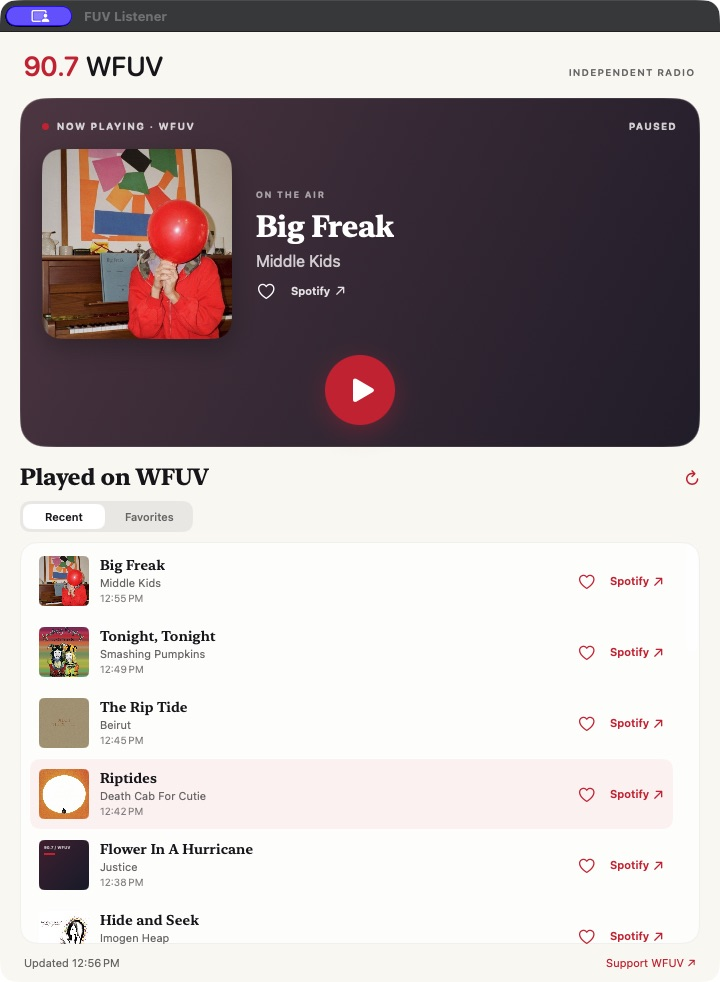
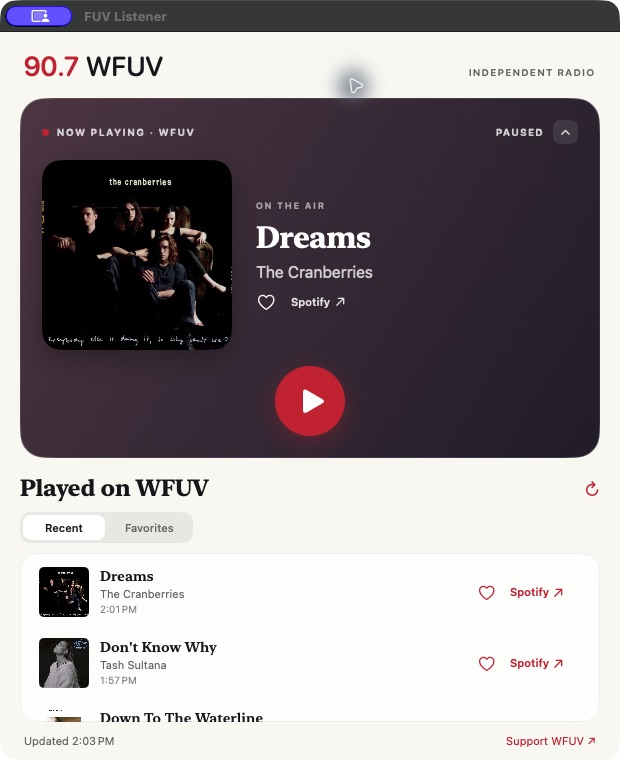
Make collapsed player a true mini window

diff --git a/Sources/FUVListenerMac/ListenerView.swift b/Sources/FUVListenerMac/ListenerView.swift
@@ -1,3 +1,4 @@
+import AppKit
 import SwiftUI
 
 enum Palette {
@@ -11,53 +12,100 @@ struct ListenerView: View {
     @EnvironmentObject private var radio: MacRadioStore
     @Environment(\.accessibilityReduceMotion) private var reduceMotion
     @AppStorage("playerCollapsed") private var playerCollapsed = false
+    @State private var windowReference = WeakWindowReference()
+    @State private var expandedContentSize = NSSize(width: 620, height: 760)
 
     var body: some View {
         GeometryReader { geometry in
-            let expanded = geometry.size.width >= 550 && geometry.size.height >= 690
-            VStack(spacing: 0) {
-                masthead
-                    .padding(.horizontal, 24)
-                    .padding(.top, 18)
-                    .padding(.bottom, 16)
-
-                Group {
-                    if playerCollapsed {
-                        CollapsedPlayerPanel(radio: radio) { playerCollapsed = false }
-                    } else {
-                        PlayerPanel(radio: radio, expanded: expanded,
-                                    tight: geometry.size.height < 630) {
-                            playerCollapsed = true
-                        }
-                    }
+            Group {
+                if playerCollapsed {
+                    CollapsedPlayerPanel(radio: radio) { setCollapsed(false) }
+                        .padding(12)
+                } else {
+                    fullPlayer(in: geometry.size)
                 }
-                .padding(.horizontal, 20)
-                .padding(.bottom, 16)
-                .animation(reduceMotion ? nil : .spring(response: 0.34, dampingFraction: 0.86),
-                           value: playerCollapsed)
-
-                if let message = radio.message {
-                    Label(message, systemImage: "wifi.exclamationmark")
-                        .font(.system(size: 12))
-                        .foregroundStyle(Palette.muted)
-                        .frame(maxWidth: .infinity, alignment: .leading)
-                        .padding(.horizontal, 24)
-                        .padding(.bottom, 10)
-                }
-
-                TrackLibraryView(radio: radio)
-                    .padding(.horizontal, 20)
-                    .frame(maxHeight: .infinity)
-
-                footer
-                    .padding(.horizontal, 24)
-                    .padding(.vertical, 12)
             }
             .frame(maxWidth: .infinity, maxHeight: .infinity)
             .background(Palette.paper)
+            .background(WindowObserver { window in
+                guard windowReference.window !== window else { return }
+                windowReference.window = window
+                configureWindow(window, collapsed: playerCollapsed, resize: playerCollapsed)
+            })
         }
         .onAppear { radio.startUpdates() }
         .onDisappear { radio.stopUpdates() }
+    }
+
+    private func fullPlayer(in size: CGSize) -> some View {
+        let expanded = size.width >= 550 && size.height >= 690
+        return VStack(spacing: 0) {
+            masthead
+                .padding(.horizontal, 24)
+                .padding(.top, 18)
+                .padding(.bottom, 16)
+
+            PlayerPanel(radio: radio, expanded: expanded, tight: size.height < 630) {
+                setCollapsed(true)
+            }
+            .padding(.horizontal, 20)
+            .padding(.bottom, 16)
+
+            if let message = radio.message {
+                Label(message, systemImage: "wifi.exclamationmark")
+                    .font(.system(size: 12))
+                    .foregroundStyle(Palette.muted)
+                    .frame(maxWidth: .infinity, alignment: .leading)
+                    .padding(.horizontal, 24)
+                    .padding(.bottom, 10)
+            }
+
+            TrackLibraryView(radio: radio)
+                .padding(.horizontal, 20)
+                .frame(maxHeight: .infinity)
+
+            footer
+                .padding(.horizontal, 24)
+                .padding(.vertical, 12)
+        }
+    }
+
+    private func setCollapsed(_ collapsed: Bool) {
+        guard playerCollapsed != collapsed else { return }
+        if collapsed, let playerWindow = windowReference.window {
+            expandedContentSize = playerWindow.contentRect(forFrameRect: playerWindow.frame).size
+        }
+        playerCollapsed = collapsed
+        guard let playerWindow = windowReference.window else { return }
+        DispatchQueue.main.async {
+            configureWindow(playerWindow, collapsed: collapsed, resize: true)
+        }
+    }
+
+    private func configureWindow(_ window: NSWindow, collapsed: Bool, resize: Bool) {
+        let miniSize = NSSize(width: 390, height: 102)
+        // Let the window cross between both size ranges before applying the new limits.
+        window.contentMinSize = NSSize(width: 390, height: 102)
+        window.contentMaxSize = NSSize(width: 720, height: 950)
+
+        if resize {
+            let target = collapsed ? miniSize : NSSize(width: max(580, expandedContentSize.width),
+                                                        height: max(680, expandedContentSize.height))
+            let current = window.frame
+            let content = window.contentRect(forFrameRect: current)
+            var frame = current
+            frame.size.width += target.width - content.width
+            frame.size.height += target.height - content.height
+            frame.origin.y = current.maxY - frame.height
+            if let visible = window.screen?.visibleFrame {
+                frame.origin.x = min(max(frame.origin.x, visible.minX), visible.maxX - frame.width)
+                frame.origin.y = min(max(frame.origin.y, visible.minY), visible.maxY - frame.height)
+            }
+            window.setFrame(frame, display: true, animate: !reduceMotion)
+        }
+
+        window.contentMinSize = collapsed ? miniSize : NSSize(width: 390, height: 500)
+        window.contentMaxSize = collapsed ? miniSize : NSSize(width: 720, height: 950)
     }
 
     private var masthead: some View {
@@ -87,5 +135,35 @@ struct ListenerView: View {
         }
         .font(.system(size: 11))
         .foregroundStyle(Palette.muted)
+    }
+}
+
+private final class WeakWindowReference {
+    weak var window: NSWindow?
+}
+
+private struct WindowObserver: NSViewRepresentable {
+    let onWindowReady: (NSWindow) -> Void
+
+    func makeNSView(context: Context) -> ObservingView {
+        let view = ObservingView()
+        view.onWindowReady = onWindowReady
+        return view
+    }
+
+    func updateNSView(_ view: ObservingView, context: Context) {
+        view.onWindowReady = onWindowReady
+    }
+
+    final class ObservingView: NSView {
+        var onWindowReady: ((NSWindow) -> Void)?
+
+        override func viewDidMoveToWindow() {
+            super.viewDidMoveToWindow()
+            DispatchQueue.main.async { [weak self] in
+                guard let self, let window = self.window else { return }
+                self.onWindowReady?(window)
+            }
+        }
     }
 }

diff --git a/Sources/FUVListenerMac/FUVListenerMacApp.swift b/Sources/FUVListenerMac/FUVListenerMacApp.swift
@@ -9,10 +9,10 @@ struct FUVListenerMacApp: App {
         WindowGroup("FUV Listener", id: "listener") {
             ListenerView()
                 .environmentObject(radio)
-                .frame(minWidth: 390, idealWidth: 470, maxWidth: 720,
-                       minHeight: 500, idealHeight: 720, maxHeight: 950)
+                .frame(minWidth: 390, idealWidth: 620, maxWidth: 720,
+                       minHeight: 102, idealHeight: 760, maxHeight: 950)
         }
-        .defaultSize(width: 470, height: 720)
+        .defaultSize(width: 620, height: 760)
         .windowResizability(.contentSize)
         .commands {
             CommandGroup(replacing: .newItem) { }

diff --git a/README.md b/README.md
@@ -1,14 +1,14 @@
 # FUV Listener for Mac
 
-A small, native macOS player for [WFUV 90.7 FM](https://wfuv.org). The live player stays visible while the song history scrolls below it. Collapse the player to a short strip when you want more room for songs; the app remembers your choice. Favorite songs locally or open any track in Spotify. The app stays in the Dock while it runs and also has a **WFUV menu bar control** for play/pause, song details, refresh, and reopening the player window.
+A small, native macOS player for [WFUV 90.7 FM](https://wfuv.org). The wider view keeps the live player visible while the song history scrolls below it. Collapse the whole window into a mini player with just the current song, artwork, and play/pause; expand it to browse history and favorites. The app remembers your choice. Favorite songs locally or open any track in Spotify. The app stays in the Dock while it runs and also has a **WFUV menu bar control** for play/pause, song details, refresh, and reopening the player window.
 
 This is an independent fan project made in support of WFUV, a great public radio resource. It is not affiliated with or endorsed by WFUV. [Support the station](https://wfuv.org/support).
 
 ## Screenshots
 
-| Full player | Collapsed player | Favorites |
+| Wide player | Mini player | Favorites |
 | :---: | :---: | :---: |
-| <img src="docs/images/player.jpg" alt="Enlarged FUV Listener player with scrollable song history" width="220"> | <img src="docs/images/collapsed.jpg" alt="Collapsed FUV Listener player above recent songs" width="220"> | <img src="docs/images/favorites.jpg" alt="FUV Listener showing favorited songs and Spotify links" width="220"> |
+| <img src="docs/images/player.jpg" alt="FUV Listener player with scrollable song history" width="220"> | <img src="docs/images/mini-player.jpg" alt="Mini FUV Listener window with artwork, song details, and play control" width="220"> | <img src="docs/images/favorites.jpg" alt="FUV Listener showing favorited songs and Spotify links" width="220"> |
 
 [See the full player at compact window size](docs/images/compact.jpg).
 

diff --git a/docs/DESIGN_REVIEW.md b/docs/DESIGN_REVIEW.md
@@ -15,10 +15,10 @@ The goal is a small radio player that keeps the live controls in view while list
 - Live radio has no seekable track progress, so the player uses a live indicator instead of a misleading progress bar.
 - The large red play/pause control is the primary action. Favorites and Spotify remain beside the song information.
 - The history pane uses a separate scroll view so the player never scrolls away.
-- The chevron collapses the player to a fixed strip with artwork, song details, and play/pause. The choice persists across launches and can be reversed without losing the history view.
-- The window is bounded to 390–720 points wide and 500–950 points tall. Album art and motion grow in the enlarged layout.
+- The chevron collapses the entire window to a 390 × 102 point mini player with artwork, song details, and play/pause. Expanding restores a wider player with history and favorites. The mode persists across launches.
+- The wide window is resizable from 390–720 points wide and 500–950 points tall. Album art and motion grow in the enlarged layout.
 
 ## Remaining limits
 
-- A very short window shows only one history row with the full player; the collapsed strip exposes several rows without moving the playback control.
+- At the minimum wide window height, only a few history rows fit at once; the list remains scrollable. Mini mode intentionally hides history.
 - WFUV's playlist metadata can lag the live audio, and some recordings have no verified album art.
